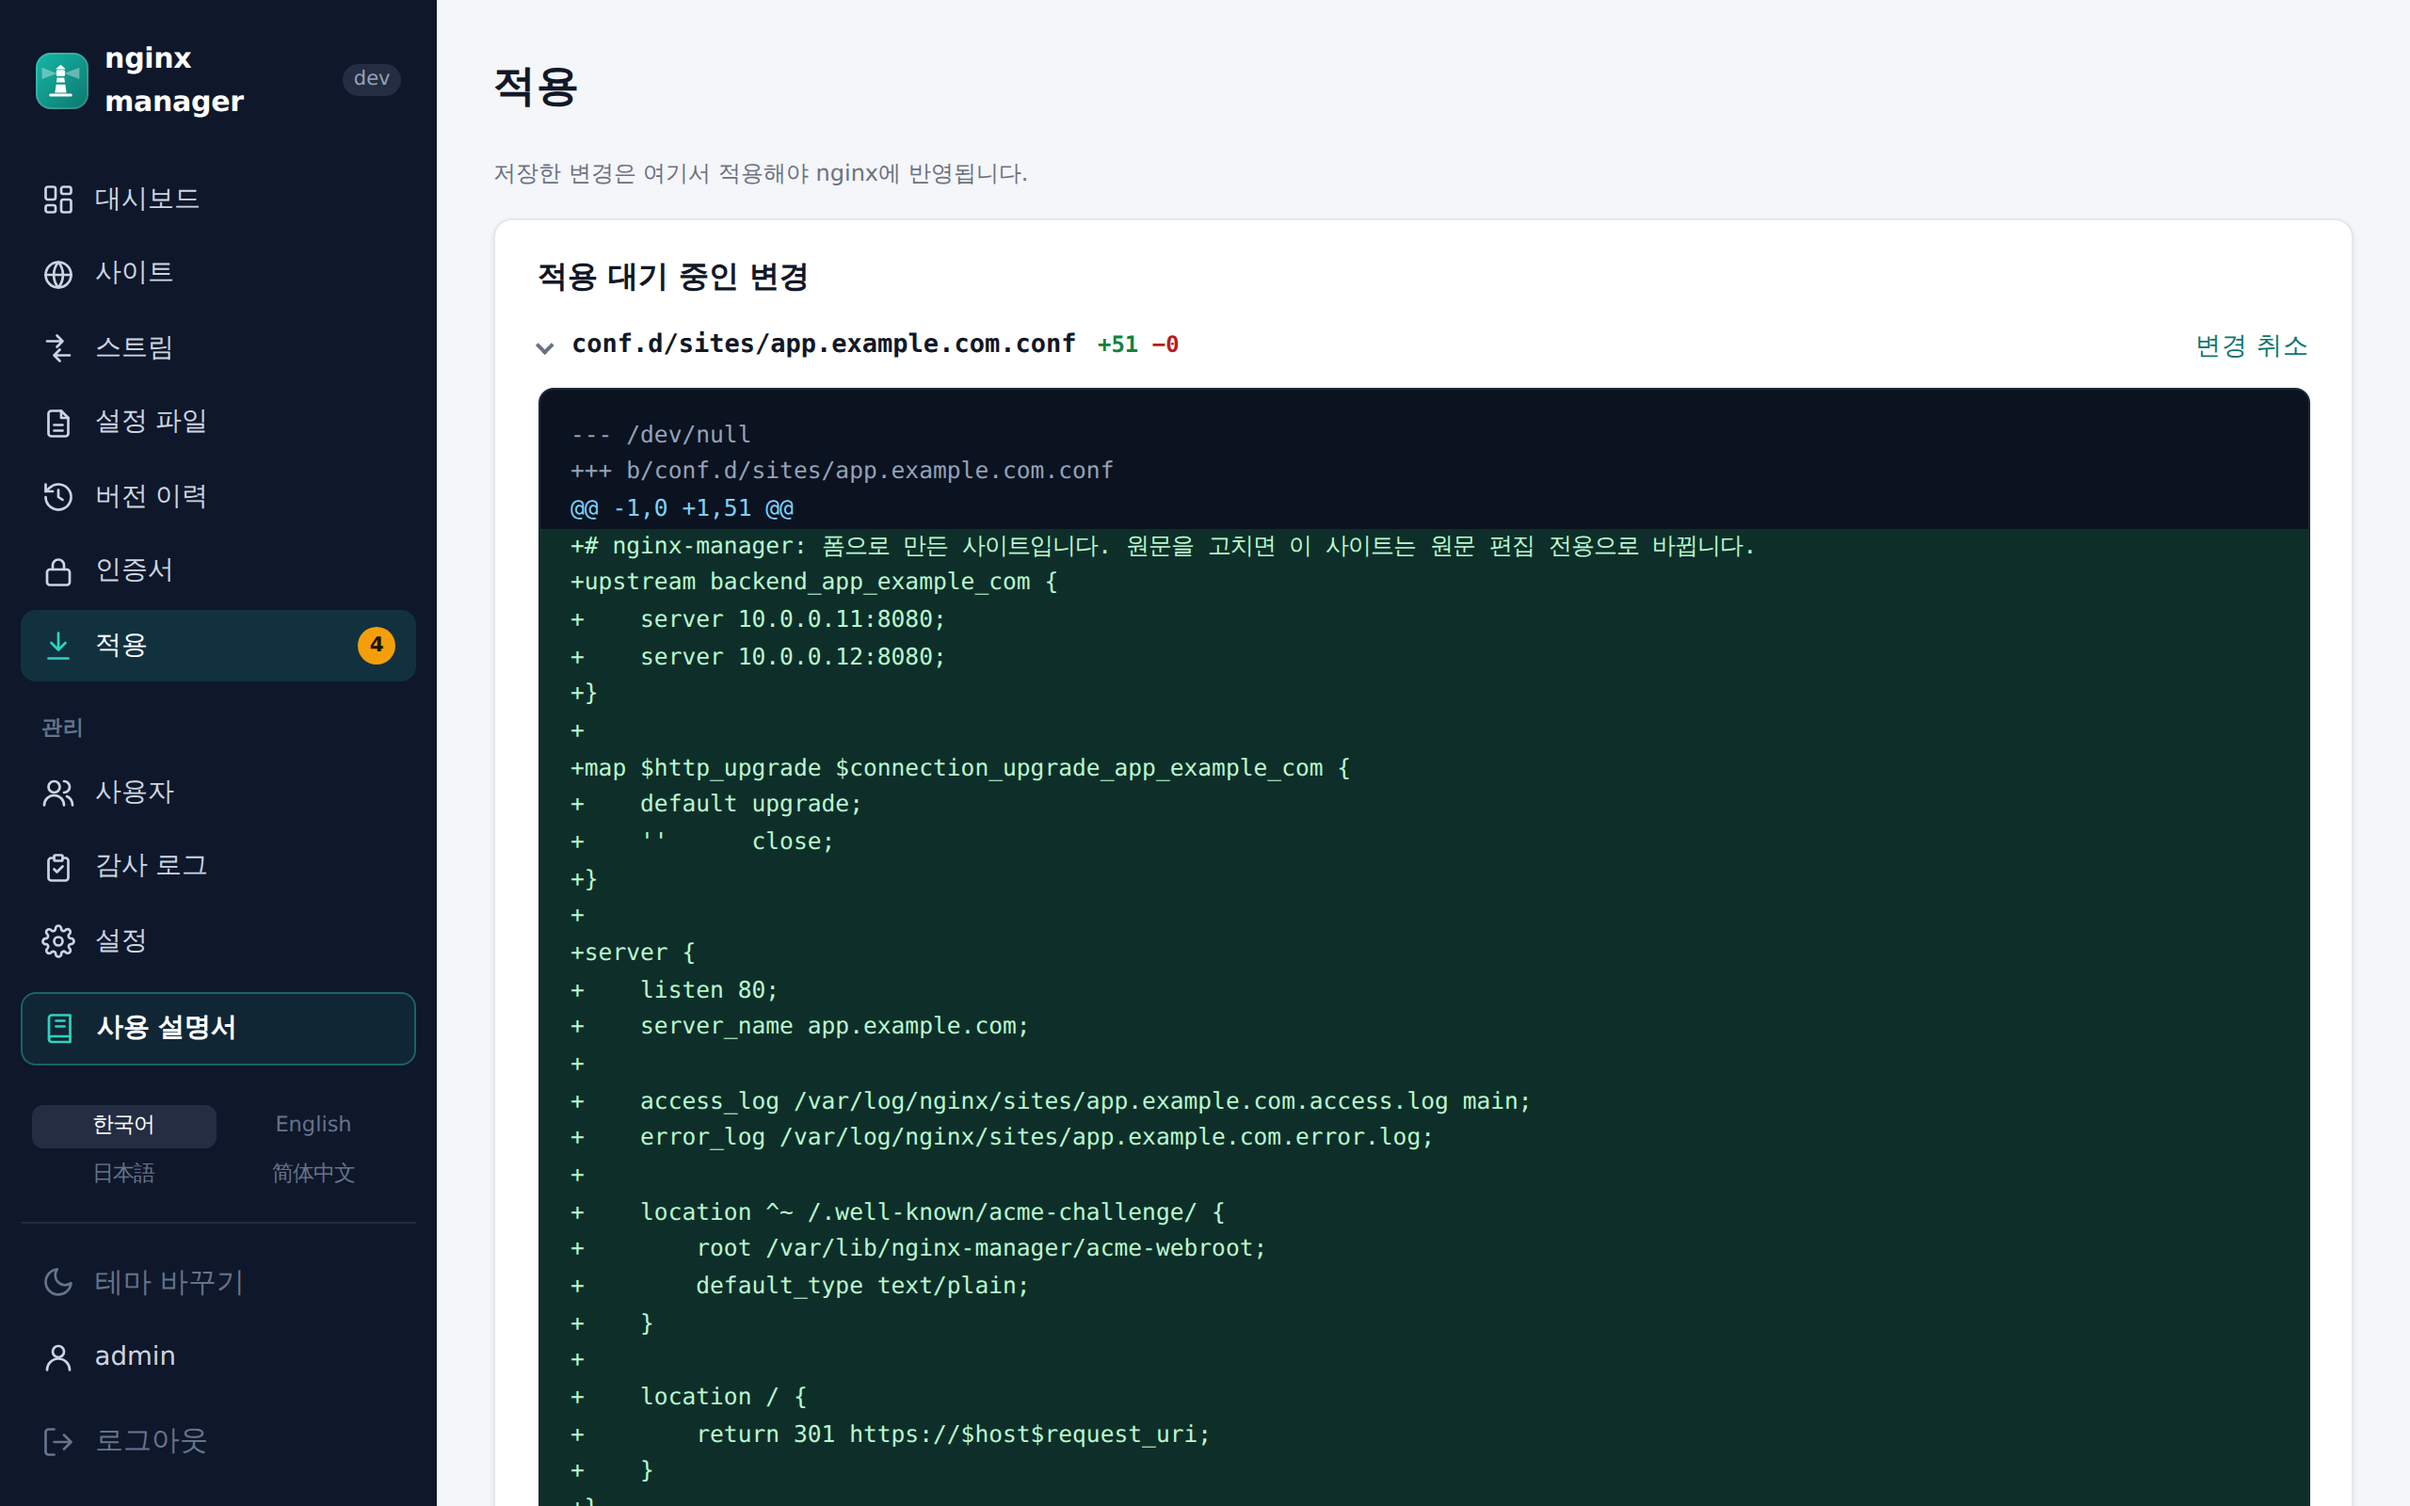
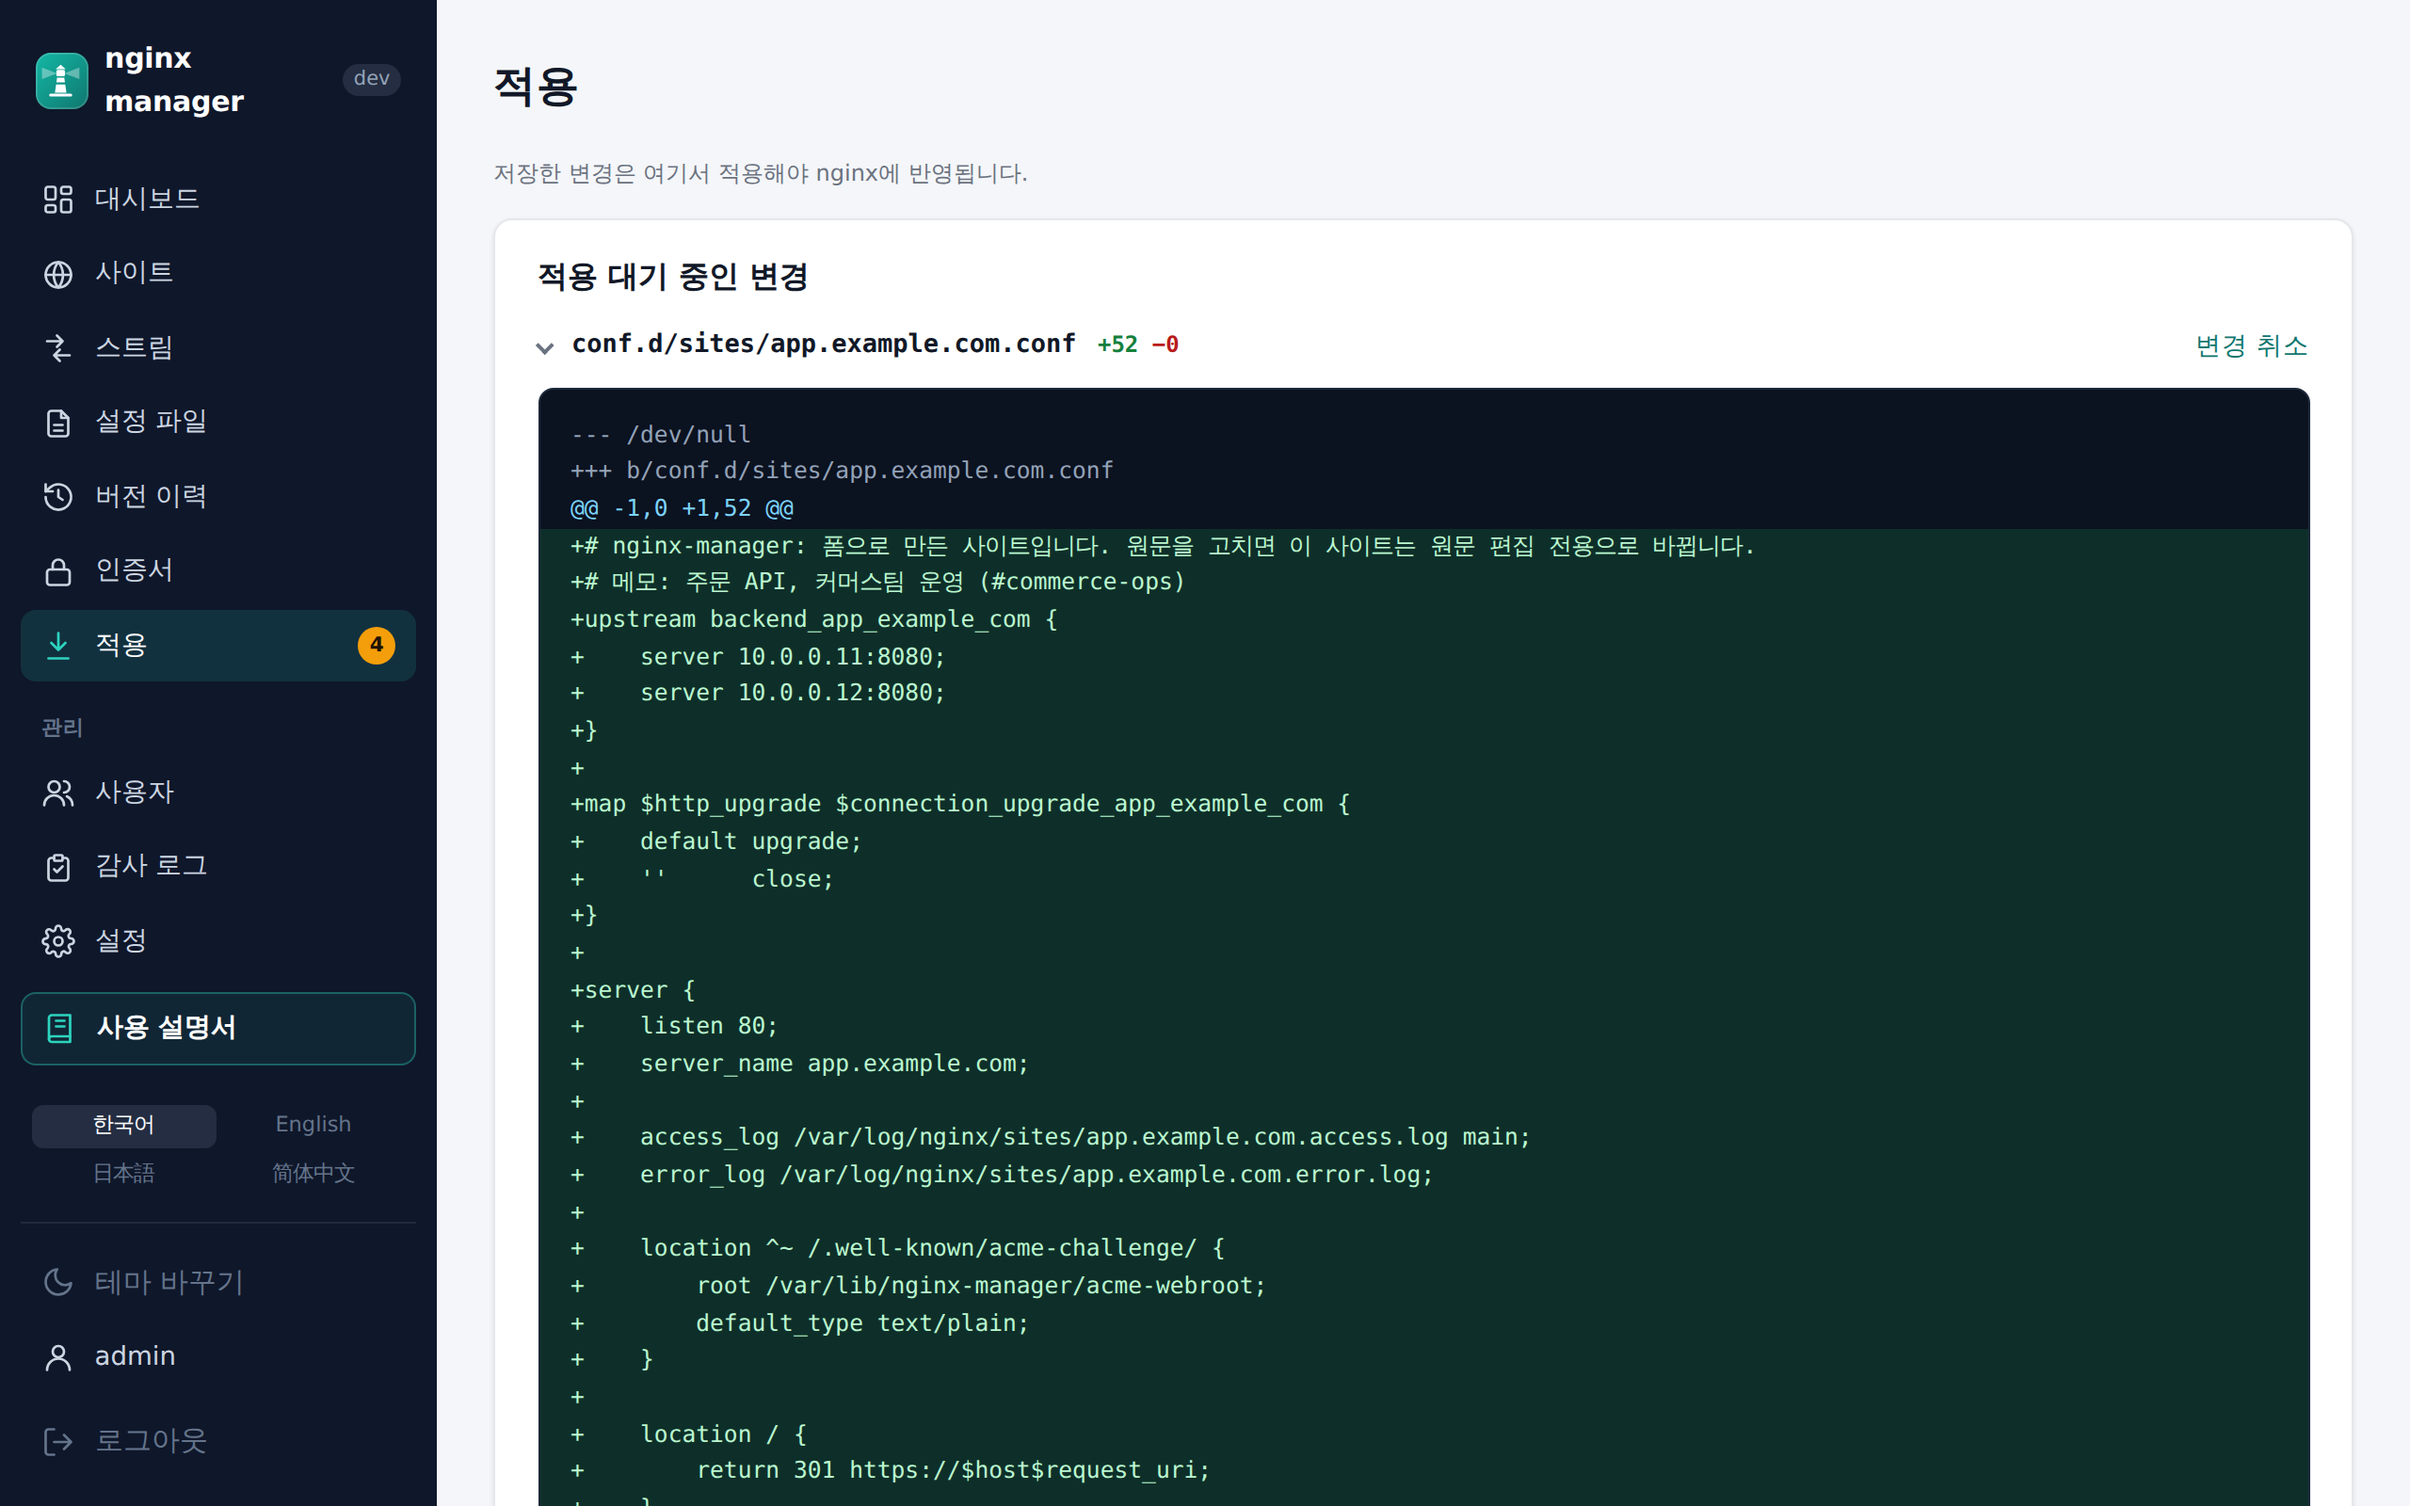
v1.9.0 릴리스 노트와 설명서 그림 (#59)
* 015: 자동 백업(매일 nm backup --label auto)과 대시보드의 마지막 백업

- nm backup-schedule: NGINX_MANAGER_BACKUP_AT(기본 03:30, off면 끔)으로 cron 또는 systemd timer
- 설치와 nm upgrade가 스케줄을 깔고, nm backup은 data/manager/backup-status에 결과를 남김
- 관리자 대시보드에 마지막 백업(시각, 종류, 크기)과 실패·2일 넘게 없음 경고
- 4개 언어 문구, 설명서 1장·3장, README 환경 변수, 스모크 테스트

Claude-Session: https://claude.ai/code/session_01Xx9UjnVyTKsCfGxjo3iS9Q

* 테스트에서 예약 변경 감지가 적용 잠금을 잡지 않게 한다

예약 변경 감지(1분마다)가 적용 잠금을 잡은 사이에 다른 테스트가 적용하면
ApplyInProgressException으로 실패했다. 감지 주기를 nginx-manager.drift.interval로
설정할 수 있게 하고 테스트에서는 돌리지 않는다.

Claude-Session: https://claude.ai/code/session_01Xx9UjnVyTKsCfGxjo3iS9Q

* 016: PHP-FPM 사이트 폼

- 사이트 유형 PHP: 문서 루트와 PHP-FPM 주소(호스트:포트, unix:/소켓)
- try_files로 index.php 프런트 컨트롤러, .php는 fastcgi_pass, 접근 제한·비밀번호는 두 location 모두에
- root와 fastcgi_pass 하나인 PHP 설정은 PHP 폼 사이트로 가져오기
- 4개 언어 문구, 설명서 4장·5장, README

Claude-Session: https://claude.ai/code/session_01Xx9UjnVyTKsCfGxjo3iS9Q

* 017: 로그인 2단계 인증(TOTP)과 복구 코드

내 계정에서 인증 앱(TOTP) 2단계 인증을 켜고 끈다. 비밀번호 다음에 코드 화면을
거쳐야 하고, 복구 코드 10개(1회용)를 준다. 틀린 코드는 비밀번호 실패와 같이
세어 잠그고, 비밀번호만 맞혀서는 실패 횟수가 지워지지 않는다. 관리자는 사용자
화면에서, 운영자는 nm reset-2fa로 해제한다.

Claude-Session: https://claude.ai/code/session_01Xx9UjnVyTKsCfGxjo3iS9Q

* 018: 외부 인증(auth_request)과 gRPC 프록시 폼

사이트 옵션에 외부 인증 서버와 로그인 주소를 더해 oauth2-proxy·Authelia 같은
SSO를 사이트 앞에 둔다. 리버스 프록시의 업스트림을 grpc://·grpcs://로 적으면
grpc_pass와 h2c로 넘긴다.

Claude-Session: https://claude.ai/code/session_01Xx9UjnVyTKsCfGxjo3iS9Q

* 설명서 그림을 GitHub Actions에서 다시 찍는 워크플로
[…]

Changed region(s): [[0.25, 0.625, 0.625, 1.0], [0.25, 0.5, 0.5625, 0.5938], [0.25, 0.375, 0.5, 0.4688]]

diff --git a/docs/releases/v1.9.0.md b/docs/releases/v1.9.0.md
@@ -1,0 +1,34 @@
+# v1.9.0 — 배포 자동화 API, 사이트 메모, 관리자 추가 지시어
+
+- 날짜: 2026-10-30
+- 이미지: `ghcr.io/nginx-manager/app:1.9.0`, `ghcr.io/nginx-manager/nginx:1.9.0-nginx1.31.8`
+- nginx: 1.31.8 (v1.8.0과 같음)
+- 설치 묶음: [GitHub Release v1.9.0](https://github.com/nginx-manager/app/releases/tag/v1.9.0)의 `install.sh`, `nginx-manager.tar.gz`
+
+배포 스크립트에서 관리도구를 부를 수 있게 하고, 폼 사이트로 할 수 있는 일을 넓혔습니다.
+
+## 배포 자동화 API
+
+- **설정 > API 토큰**에서 관리자가 토큰을 만듭니다. 토큰 값(`nmt_…`)은 만들 때 한 번만 보이고, 관리도구에는 해시만 남습니다. 지우면 바로 막힙니다.
+- `Authorization: Bearer <토큰>`으로 부릅니다.
+  - `GET /api/v1/sites`: 사이트 목록(도메인, 유형, 켜짐, 점검 중, 적용 대기, HTTPS)
+  - `POST /api/v1/sites/{도메인}/maintenance`: `{"enabled": true, "apply": true}`로 점검 모드를 켜고 바로 적용합니다
+  - `POST /api/v1/apply`: 적용 대기 중인 변경을 모두 적용합니다
+- 적용이 검증에 실패하면 `422`와 `nginx -t` 오류를 돌려주므로 `curl --fail` 한 줄로 배포를 멈출 수 있습니다.
+- 토큰은 관리자 권한으로 동작하고, 한 일은 감사 로그에 `token:이름`으로 남습니다(사용 설명서 12장).
+
+## 사이트 메모
+
+- 사이트마다 담당 팀, 연락처, 만든 이유 같은 메모를 500자까지 남깁니다.
+- 사이트 목록의 도메인 아래에 보이고 검색으로 찾을 수 있으며, 설정 파일 맨 위에 `# 메모:` 주석으로도 남습니다(사용 설명서 4장).
+
+## 관리자 추가 지시어
+
+- 폼에 없는 nginx 지시어를 **추가 지시어**에 적으면 server 블록 끝에 그대로 덧붙입니다. 지시어 몇 줄 때문에 사이트를 Raw 설정으로 바꾸지 않아도 됩니다.
+- 저장할 때 중괄호와 따옴표의 짝을 확인하고, 내용은 적용할 때 `nginx -t`가 검증합니다.
+- 관리자만 바꿀 수 있습니다. 멤버에게는 읽기 전용으로 보이고, 멤버가 사이트를 저장해도 그대로 남습니다(사용 설명서 4장).
+
+## 업그레이드할 때
+
+- `sudo /opt/nginx-manager/nm upgrade`로 manager만 올리면 됩니다. 에이전트 API 판은 그대로(1)라 nginx 이미지는 올리지 않아도 됩니다.
+- API 토큰 표가 생겨 DB 마이그레이션(V15)이 시작할 때 자동으로 적용됩니다.
